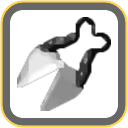
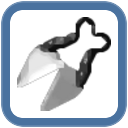
Give the Clippers tool its name back
Upstream fixed Shipments.csv row 1103, which had the literal name "progression"
where a real tool item's name should be -- the pack had already worked out it
was Clippers, from the sheet's own ID column and the shears icon it resolves to.
Regenerated against that build and unpicked the three workarounds it cost.

The item's tracking code was the slug of the broken name. Four hand-maintained
files key on that code and had to move together -- items/items.json,
item_mapping.lua, layouts/items.json and tools/item_icons.json -- so
check_layouts.py now reports any itemgrid cell naming a code items/ does not
define. Such a cell draws as a blank square and says nothing, which is exactly
how half of a rename hides; it flags the half-done state and passes the finished
one.

The check under Selphia/Shipment is named Clippers rather than progression, and
its pin swaps places with Magnifying Glass on the Other sheet now that it sorts
under C. The tame sheets are unchanged: their Clippers chip is the same image
under a new name.

export_item_meta.py no longer forces a progression classification onto it. The
word in that cell was the Name column's corruption, not a classification, and
Items.py builds every shipable shipment as ItemClassification.filler -- so the
tile drops its gold rim and takes the Tool family's steel, which is what Brush
and Magnifying Glass either side of it already wear. Rebuilding all 1138 tiles
changed that one file and no other.
[…]

Changed region(s): [[0.0, 0.0, 1.0, 1.0]]

diff --git a/tools/verify/check_layouts.py b/tools/verify/check_layouts.py
@@ -13,7 +13,13 @@ portrait ones only much later.
     events.json  event_grid*              same items, reflowed 21/11/9 wide
     tracker.json vs chroma_on/chroma_off  the same roots, bar the background
     every layouts/*.json                  no reference to a key nothing defines
+    every itemgrid                        no code items/ does not define
     maps.json                             every map on a tab, every tab a map
+
+A grid cell naming a code nothing defines draws as a blank square and says
+nothing, which is how half of an item rename hides: `Clippers` carried the code
+`progression` until upstream fixed its name, and four hand-maintained files had
+to move together.
 
 The map tab trees must match exactly, titles and order included: they show the
 same maps, only in a differently shaped pane. The grids must hold the same
@@ -26,6 +32,7 @@ Non-zero exit if any of them drift.
 import glob
 import json
 import os
+import re
 import sys
 
 HERE = os.path.dirname(os.path.abspath(__file__))
@@ -33,6 +40,9 @@ PACK = os.path.dirname(os.path.dirname(HERE)) + '/'
 
 ROOTS = ('tracker_default', 'tracker_horizontal', 'tracker_vertical',
          'tracker_broadcast')
+ITEM_FILES = ('items/items.json', 'items/events.json', 'items/options.json')
+# scripts/logic_info.lua builds this one at runtime, so no items/ file has it
+LUA_CODES = ('LOGIC_INFO_CODE',)
 
 
 def walk(node, out, path=''):
@@ -162,6 +172,27 @@ def main():
         bad += 1
     if not set(wanted) - defined:
         print('  %-24s %d, all defined' % ('keys referenced', len(wanted)))
+
+    print('Item codes')
+    codes = set()
+    for path in ITEM_FILES:
+        loaded = load(path)
+        for item in (loaded if isinstance(loaded, list) else loaded['items']):
+            codes |= {c.strip() for c in (item.get('codes') or '').split(',')
+                      if c.strip()}
+    lua = open(PACK + 'scripts/logic_info.lua', encoding='utf-8').read()
+    for name in LUA_CODES:
+        found = re.search(r'%s = "([^"]+)"' % name, lua)
+        if found:
+            codes.add(found.group(1))
+    drawn = {name for layout in (items, events)
+             for key in layout
+             for _, name in leaves(layout[key], 'item')}
+    for code in sorted(drawn - codes):
+        print('  NO SUCH ITEM             %s' % code)
+    bad += len(drawn - codes)
+    if not drawn - codes:
+        print('  %-24s %d drawn, all defined' % ('item codes', len(drawn)))
 
     print('Maps')
     declared = {m['name'] for m in load('maps/maps.json')}

diff --git a/tools/apworld/export_item_meta.py b/tools/apworld/export_item_meta.py
@@ -44,14 +44,6 @@ SHEET = '1YU6grqkNfm-fRCV1gIQCDBU466W79-UGnRhtYPxam4Q'
 GID = {'Items': '1720142906', 'Shipments': '2037917468', 'Tame': '1539295810'}
 EXPORT = 'https://docs.google.com/spreadsheets/d/%s/export?format=csv&gid=%s'
 
-# Known upstream remap. Clippers carries the pack item code "progression" and
-# is in neither sheet, so nothing here would colour it; it is a progression
-# item and takes a progression item's rim.
-REMAP = {
-    'progression': {'cls': 'progression'},       # Clippers / Shears
-}
-
-
 def download(name):
     """One tab of the workbook, as CSV text."""
     request = urllib.request.Request(EXPORT % (SHEET, GID[name]),
@@ -106,9 +98,6 @@ def main():
         tier = (row.get('Tier') or '').strip()
         if name and tier.isdigit():
             tiers[slug(name)] = int(tier)
-
-    for code, fix in REMAP.items():
-        meta.setdefault(code, {}).update(fix)
 
     palette = json.load(open(PACK + 'tools/item_palette.json', encoding='utf-8'))
     unknown = sorted({m['cat'] for m in meta.values()

diff --git a/tools/README.md b/tools/README.md
@@ -270,12 +270,12 @@ and Sechs Territory's, so no letter code could match.
 ## Upstream data bugs the export matches
 
 `parse_csv` keys its rows by `Name`, so where a sheet holds two rows with the
-same name the later one silently wins. Shipments has five such pairs — `Gloves`
-is both a Craft worth 170 (line 125) and a Forge worth 380 (line 693), and
-`Turnip`, `Squid` and `Battle Turnip` each carry a stray "Category" row.
-`export_location_meta.py` collapses them the same way, because the seed was
-generated from the collapsed table; reading both rows would put 1078 sell
-values in the pack against the 1077 generation used.
+same name the later one silently wins. Shipments has four such pairs — `Turnip`,
+`Squid` and `Battle Turnip` each carry a stray "Category" row, and `Venti's
+Charm` is in twice as a Craft. None of them costs anything today: the row that
+wins is the real one in each case, and the shadowed row is non-shipable, so no
+location and no sell value is lost. `Gloves` was the pair that did cost one, and
+upstream split it into `Gloves (Accessory)` and `Gloves (Weapon)`.
 
 ## Artwork
 
@@ -537,9 +537,11 @@ gives the same bytes back.
 across seven files. The map tab trees must match exactly, titles and order
 included. The item and request grids must hold the same items in the same
 order, but not the same rows -- they are reflowed. The roots in `tracker.json`,
-`chroma_on.json` and `chroma_off.json` must agree bar the background. And no
+`chroma_on.json` and `chroma_off.json` must agree bar the background. No
 `{"type": "layout", "key": ...}` anywhere may name a key nothing defines,
-which is what catches a body or panel renamed in one file only.
+which is what catches a body or panel renamed in one file only. And no itemgrid
+cell may name an item code `items/` does not define -- such a cell draws as a
+blank square and says nothing, which is how half of an item rename hides.
 
 `check_maps.py` answers two questions. Does re-rendering still produce the
 images that are committed? It copies the pack's maps into `_baseline/`, renders
@@ -563,15 +565,65 @@ test is comparing against a release the pack no longer follows.
 
 ## Known upstream data issues
 
-These are worked around in `apworld/export_logic.py`; they are bugs in the apworld, not
-in the pack.
+Bugs in the apworld, not in the pack, confirmed by reading the source at HEAD
+(2026-09-08). Where the pack has to do something about one it is worked around
+in `apworld/export_logic.py`, and the pack matches generation's actual behaviour
+rather than its intent -- a tracker stricter than AP would show reachable checks
+as unreachable.
 
 - `Rules.get_location_rules()` returns a 1-tuple (trailing comma), so the
   `if name in location_rules` test in `set_rules` is never true and none of
   those 12 location rules are applied during generation. Matched deliberately.
-- Five region names referenced by locations do not exist in `region_data_table`:
-  `Floating Empire: West` (colon, should be a hyphen), `Field Dungeon (Boss)`,
-  `First Task!`, `How to place furniture!` and `Not implemented`.
+  Two more faults sit behind it, so the comma cannot be fixed on its own: the
+  bodies call `state.has("X", state, player)`, which evaluates against an empty
+  counter and is False with every item held, and the keys are not the names
+  generation builds -- `Accessory Bread` for `Selphia Shipment - Accessory
+  Bread`, and the two chest keys for `Rune Prana F2 B3 Chest - <items>` -- so
+  they would still match nothing.
+- Three region names referenced by data are absent from `region_data_table`, and
+  `create_regions` silently drops any location in a region it does not know:
+  `Floating Empire: West` (colon, should be a hyphen -- Dark Slime, in Tame.csv),
+  `Field Dungeon (Boss)` (Greater Demon, Grimoire, Octopirate) and
+  `Not implemented` (Handonetta). All five are tames, so nothing is lost unless
+  tamesanity is on, and Dark Slime is tier 8, so a `max_ship_tier` under 8 drops
+  it anyway. `export_logic.py` aliases the first and drops the rest.
 - `Grape Tree Seeds` and `Orange Tree Seeds` are required by the
-  `Harvest 50 Grapes!` and `Harvest 20 Oranges!` requests but are not items, so
-  those requests cannot be satisfied.
+  `Harvest 50 Grapes!` and `Harvest 20 Oranges!` requests, but the items are
+  singular -- `Grape Tree Seed` and `Orange Tree Seed`, which is what the game's
+  own string table calls ids 0x31E and 0x31D. The requirement falls through to
+  `state.has()` on a name no item has, so neither request can be satisfied. The
+  fix belongs in the request row: the shipment names are transcribed correctly,
+  and renaming them would move an AP item and location name and cost the two
+  items their game art, which `export_item_tiles.py` looks up by name.
+- `bugged_locs` reads `Mystery Potion x x3`, with a doubled `x`, so it matches no
+  location and the Sechs Territory F1 I2 chest the sheet now marks "Not present
+  in AP" still generates.
+- The shipment caps compare with `>=` where the tame cap uses `>`, so the 16
+  tier-11 shipments and Gold Juice (sell 800000) can never be a check in any
+  seed: `MaxItemTier` stops at 11 and `MaxSell` at 800000. The pack hides them,
+  which is why Emery Flower and every Sharance Maze boss drop but Earthwyrm
+  Scale never appear.
+- `parse_csv` reads its CSV as `str(bytes)`, so the two non-ASCII names arrive as
+  their UTF-8 escapes: `No Rot α` is `No Rot \xce\xb1` in AP. The pack's item
+  slugs carry the escape for the same reason.
+- The Searchsanity block builds its locations with `loc_type = "box"`, a copy of
+  the block above it, so all 28 come back typed as boxes. Nothing upstream reads
+  `loc_type`, so it costs only telling them apart; `load.py` retypes them.
+
+Fixed upstream, recorded so the old workarounds are not put back: `requestsanity`
+is honoured, the duplicate `Gloves` shipment is split in two, the `Clippers` tool
+no longer carries `progression` as its name, and `fill_slot_data` sends six of
+the sanity options. `grocerysanity`, `max_ship_tier`, `max_sell_value` and
+`max_friendship` still never arrive and are inferred from the room's location
+list.
+
+The `Clippers` rename cost three workarounds, all now gone. Its shipment row is
+back in `shipment_data_table` under its own name, so `can_get_item` can answer
+for it and `Selphia Plains - East Tame - Shmooly` -- which likes Clippers -- is
+in logic again; `UPSTREAM_UNREACHABLE` in `tests/rf4_logic_test.lua` is empty.
+The pack item's code was the slug of the broken name and is now `clippers`, and
+the check under `Selphia/Shipment` is named `Clippers` rather than
+`progression`. And `export_item_meta.py` no longer forces a classification onto
+it: the word in that cell was the Name column's corruption, not a
+classification, and `Items.py` builds every shipable shipment as
+`ItemClassification.filler`, so the tile loses its progression rim.
